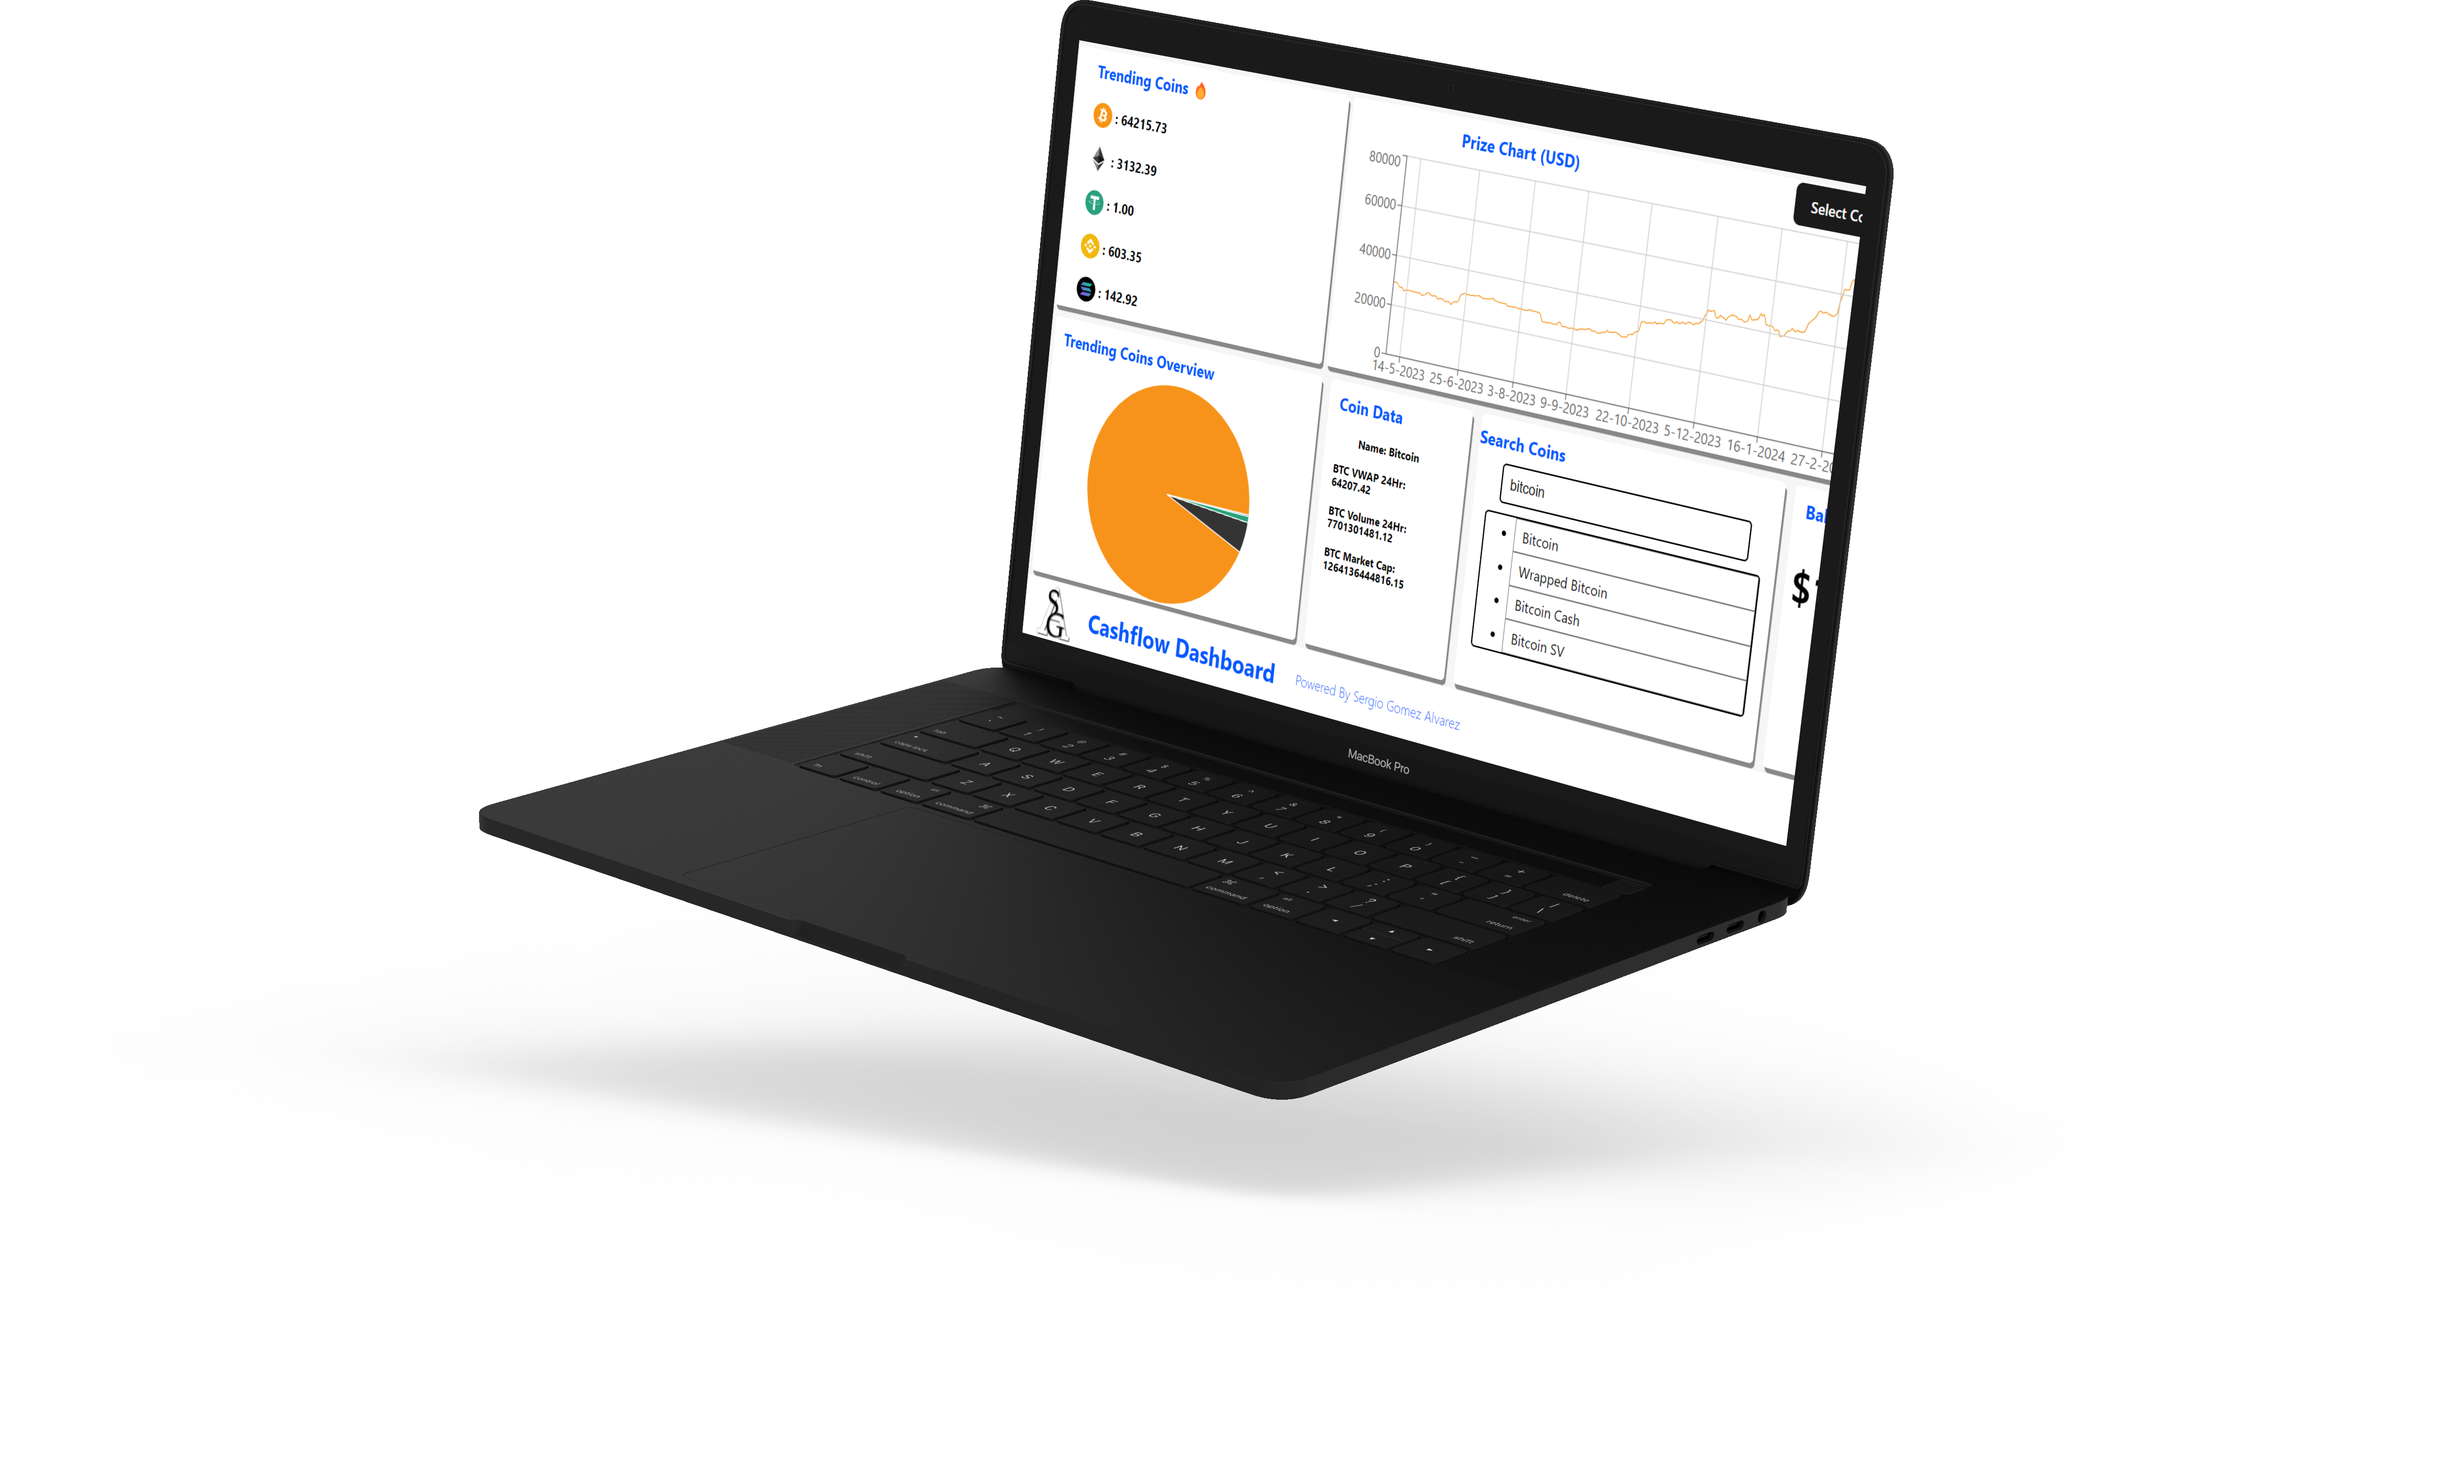
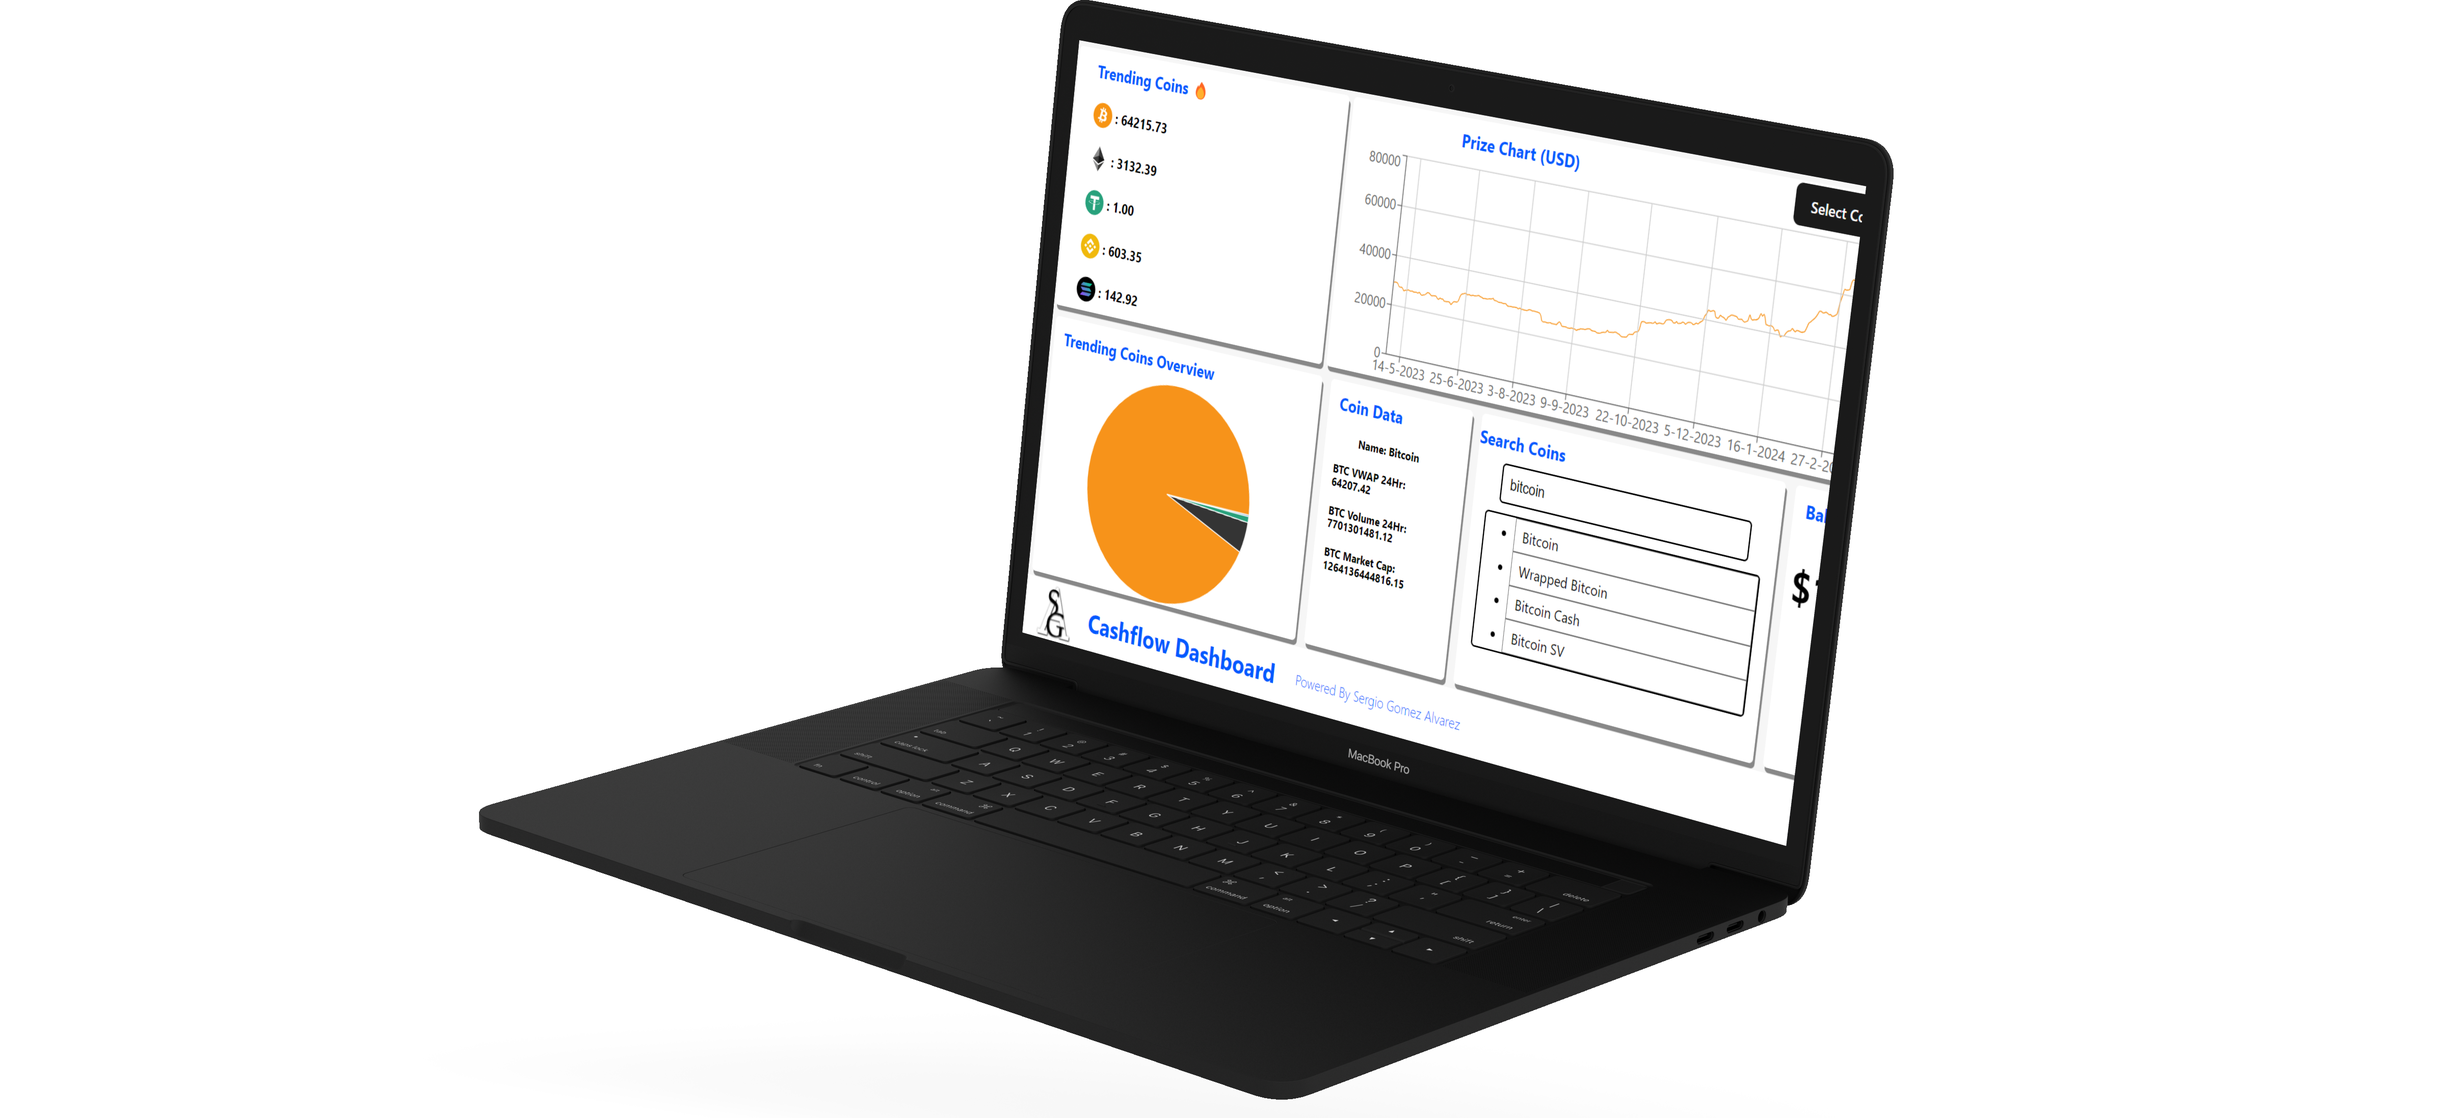
Added another my work section and fixed image issue

Changed region(s): [[0.1873, 0.0, 0.7803, 0.9918], [0.6554, 0.217, 0.6866, 0.2479], [0.437, 0.6199, 0.4682, 0.6509]]

diff --git a/my-work.html b/my-work.html
@@ -62,16 +62,20 @@
         </div>
         <img
           class="laptop-mockup"
-          src="images/mockuuups-macbook-pro-mockup-clay-dark-floating-to-the-right.png"
+          src="images/laptop-01.png"
         />
       </div>
       <div class="container-quotes">
         <h1 class="main-text">CPO Search Panel</h1>
       </div>
       <div class="container-work-picture">
-        <img class="test02" src="images/test-picture.jpg" />
+        <img class="test02" src="images/cpo-search-home-page.png" />
       </div>
-      
+      <div class="container-quotes">
+        <h1 class="main-text">
+          This is a project i made during my internship at PLUGZ
+        </h1>
+      </div>
     </div>
   </body>
 </html>

diff --git a/css/main.css b/css/main.css
@@ -317,6 +317,7 @@ main#app {
   height: 800px;
   padding-top: 50px;
   background-color: #000;
+  font-size: 1.5rem;
 }
 
 /* Mark Boots */
@@ -449,6 +450,8 @@ ul li .descr::before {
   bottom: 0.25rem;
 }
 
+
+
 @media (min-width: 40rem) {
   ul {
     grid-template-columns: 1fr var(--line-w) 1fr;
@@ -534,7 +537,7 @@ ul li .descr::before {
 }
 
 .test02{
-  width: 50%;
+  width: 60%;
   transition: all 0.2s;
   -webkit-transition: all 0.2s;
   -moz-transition: all 0.2s;
